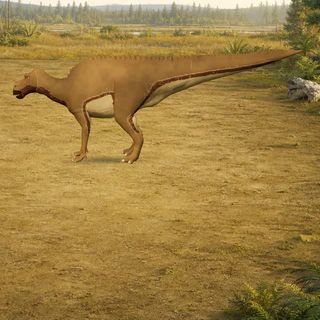
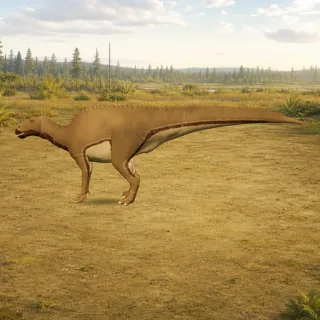
fix: load collection thumbnails reliably

diff --git a/e2e/museum.spec.ts b/e2e/museum.spec.ts
@@ -123,6 +123,43 @@ test('loads from the nested static base with Chinese semantics and accessible to
   await expect(tooltip).toHaveCSS('opacity', '1')
 })
 
+test('eagerly loads every thumbnail in the complete museum index', async ({
+  page,
+}) => {
+  await page.setViewportSize({ width: 390, height: 844 })
+  await openMuseum(page)
+  await page.getByRole('button', { name: '打开全馆图鉴' }).click()
+
+  const dialog = page.getByRole('dialog', { name: '全馆图鉴' })
+  const cards = dialog.locator('.collection-card')
+  const images = dialog.locator('.collection-card__image img')
+  const cardCount = await cards.count()
+
+  expect(cardCount).toBeGreaterThan(0)
+  await expect(images).toHaveCount(cardCount)
+  expect(
+    await images.evaluateAll((elements) =>
+      elements.every((element) => element.getAttribute('loading') === 'eager'),
+    ),
+  ).toBe(true)
+
+  await dialog.locator('.collection-grid').evaluate((grid) => {
+    grid.scrollTop = grid.scrollHeight
+  })
+  await expect
+    .poll(() =>
+      images.evaluateAll((elements) =>
+        elements.every(
+          (element) =>
+            element instanceof HTMLImageElement &&
+            element.complete &&
+            element.naturalWidth > 0,
+        ),
+      ),
+    )
+    .toBe(true)
+})
+
 test('pauses focus-mode rotation for four idle seconds after a drag', async ({
   page,
 }) => {

diff --git a/src/content/animals/maiasaura/provenance.ts b/src/content/animals/maiasaura/provenance.ts
@@ -29,7 +29,7 @@ export const provenance = createPublishedAssetProvenance({
       'Exported a single closed-loop Idle, validator-checked the result, and reviewed the animated skinned bounds in the shared museum viewer.',
     ],
   },
-  derivedImagesGeneratedOn: '2026-07-31',
+  derivedImagesGeneratedOn: '2026-08-05',
   backgrounds: {
     landscape: {
       source: reviewedBackgroundSources.maiasaura.landscape,
@@ -59,9 +59,9 @@ export const provenance = createPublishedAssetProvenance({
[1 lines of base64/hex data omitted]
   },
   thumbnail: {
-    bytes: 39_876,
+    bytes: 17_338,
     sha256:
[2 lines of base64/hex data omitted]
   },
   narration: {
     generatedOn: '2026-07-30',

diff --git a/tests/App.test.tsx b/tests/App.test.tsx
@@ -330,6 +330,9 @@ describe('App', () => {
       within(dialog).getAllByRole('button', { name: /前往.+展台$/ }),
     ).toHaveLength(18)
     expect(
+      dialog.querySelectorAll('.collection-card__image img[loading="eager"]'),
+    ).toHaveLength(18)
+    expect(
       within(dialog).getByRole('button', {
         name: '当前展台，前往剑龙展台',
       }),

diff --git a/src/components/AnimalCollectionSheet.tsx b/src/components/AnimalCollectionSheet.tsx
@@ -143,7 +143,7 @@ export function AnimalCollectionSheet({
                     <img
                       alt=""
                       decoding="async"
-                      loading="lazy"
+                      loading="eager"
                       src={animal.thumbnail}
                     />
                   </span>

diff --git a/THIRD_PARTY_NOTICES.md b/THIRD_PARTY_NOTICES.md
@@ -384,10 +384,10 @@ content, contributions, and Brand Assets follow the separate scopes in
 ### `images/thumbnail.webp`
 
 - Asset type: thumbnail
-- Source: 慈母龙 collection thumbnail, derived on 2026-07-31
+- Source: 慈母龙 collection thumbnail, derived on 2026-08-05
 - License: [Creative Commons Attribution 4.0 International](https://creativecommons.org/licenses/by/4.0/)
 - Attribution: “Maiasaura With Rig” by Dino Dan, CC BY 4.0; modified for the Prehistoric Animal Museum. Scene art generated for this project.
[2 lines of base64/hex data omitted]
 - Modifications:
   - Selected a card-size crop that keeps the animal readable.
   - Exported without embedded text, controls, labels, logos, or watermarks.
